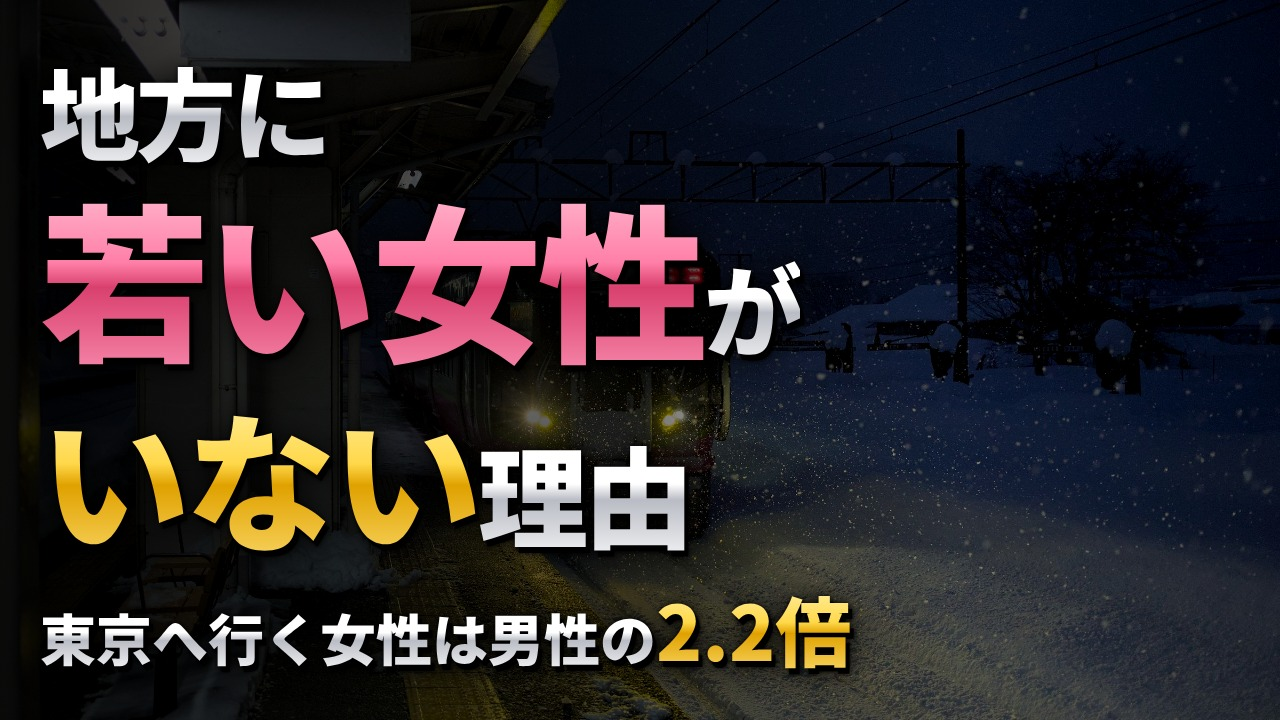
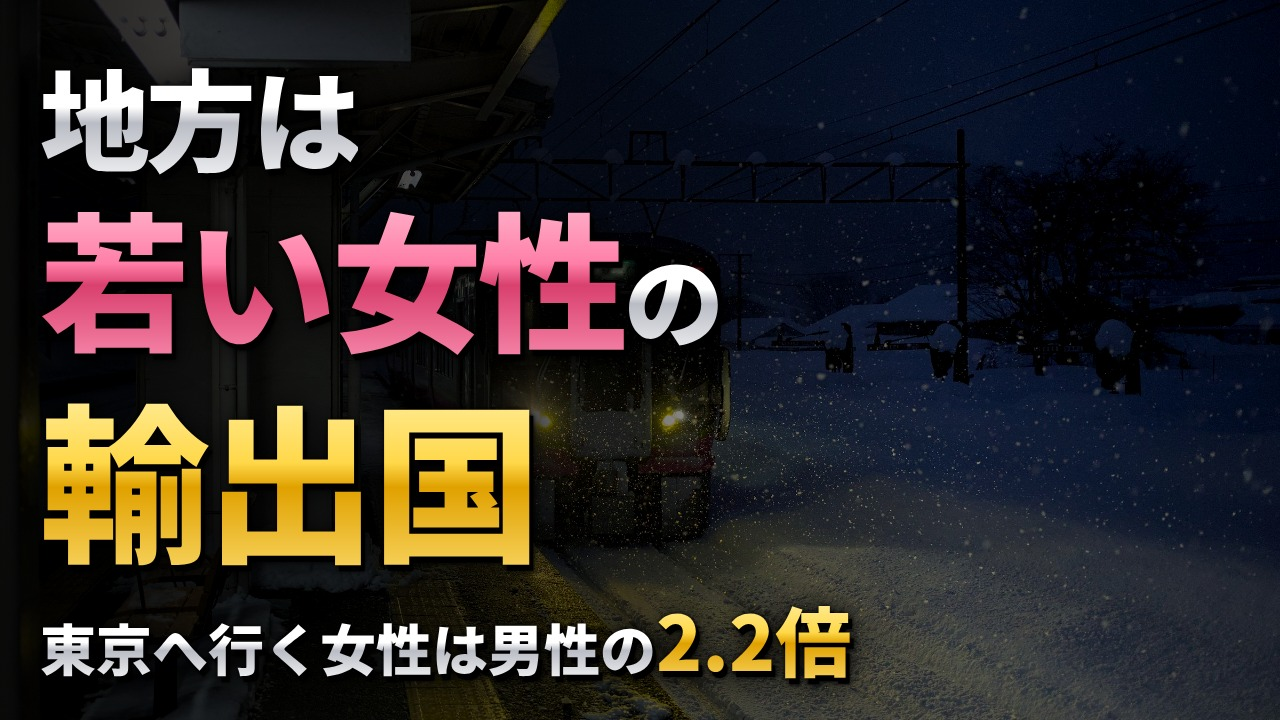
05・06 タイトルとサムネを言い回し型に
Claude-Session: https://claude.ai/code/session_01F9DXnyMM1rdVPBt1VXeibd

diff --git a/sekai/episodes/06_shokuba/thumb/t.html b/sekai/episodes/06_shokuba/thumb/t.html
@@ -6,7 +6,8 @@
 .g{background:linear-gradient(180deg,#fff7c2 0%,#ffd84a 45%,#e0a100 55%,#ffe27a 100%);-webkit-background-clip:text;color:transparent}
 .r{background:linear-gradient(180deg,#ff8a6a 0%,#ff3b1f 45%,#c4130a 55%,#ff5a3a 100%);-webkit-background-clip:text;color:transparent}
 .s{filter:drop-shadow(0 0 2px #000) drop-shadow(4px 6px 0 #000) drop-shadow(0 0 14px rgba(0,0,0,.8))}</style>
-<div class="l s" style="top:70px;font-size:170px"><span class="g">職場結婚</span><span class="w" style="font-size:100px">が</span></div>
-<div class="l s" style="top:290px;font-size:150px"><span class="r">減った</span><span class="w" style="font-size:110px">理由</span></div>
-<div class="l s" style="top:500px;font-size:80px;letter-spacing:-2px"><span class="w">28%</span><span class="w" style="font-size:60px"> → </span><span class="r" style="font-size:100px">21%</span></div>
+<div class="l s" style="top:60px;font-size:120px"><span class="w">会社が</span></div>
+<div class="l s" style="top:200px;font-size:170px"><span class="g">仲人</span><span class="w" style="font-size:110px">を</span></div>
+<div class="l s" style="top:400px;font-size:160px"><span class="r">廃業</span><span class="w" style="font-size:110px">した</span></div>
+<div class="l s" style="top:610px;font-size:60px;letter-spacing:0"><span class="w">職場結婚 28%</span><span class="w" style="font-size:50px"> → </span><span class="r" style="font-size:76px">21%</span></div>
 </body></html>

diff --git a/sekai/episodes/05_chihou/thumb/t.html b/sekai/episodes/05_chihou/thumb/t.html
@@ -6,8 +6,8 @@
 .g{background:linear-gradient(180deg,#fff7c2 0%,#ffd84a 45%,#e0a100 55%,#ffe27a 100%);-webkit-background-clip:text;color:transparent}
 .p{background:linear-gradient(180deg,#ffd0e0 0%,#ff7fa8 45%,#d9406e 55%,#ff9abb 100%);-webkit-background-clip:text;color:transparent}
 .s{filter:drop-shadow(0 0 2px #000) drop-shadow(4px 6px 0 #000) drop-shadow(0 0 14px rgba(0,0,0,.8))}</style>
-<div class="l s" style="top:60px;font-size:100px"><span class="w">地方に</span></div>
-<div class="l s" style="top:190px;font-size:170px"><span class="p">若い女性</span><span class="w" style="font-size:100px">が</span></div>
-<div class="l s" style="top:400px;font-size:150px"><span class="g">いない</span><span class="w" style="font-size:110px">理由</span></div>
-<div class="l s" style="top:590px;font-size:56px;letter-spacing:0"><span class="w">東京へ行く女性は男性の</span><span class="g" style="font-size:76px">2.2倍</span></div>
+<div class="l s" style="top:60px;font-size:110px"><span class="w">地方は</span></div>
+<div class="l s" style="top:200px;font-size:150px"><span class="p">若い女性</span><span class="w" style="font-size:100px">の</span></div>
+<div class="l s" style="top:390px;font-size:170px"><span class="g">輸出国</span></div>
+<div class="l s" style="top:600px;font-size:56px;letter-spacing:0"><span class="w">東京へ行く女性は男性の</span><span class="g" style="font-size:76px">2.2倍</span></div>
 </body></html>

diff --git a/sekai/STYLE.md b/sekai/STYLE.md
@@ -129,3 +129,12 @@
 - 人気動画の冒頭は写真ゼロ。テーマそのものを図（色分けした人型・100人の格子・グラフ）にして、同じ画面に少しずつ足していく。
 - 写真は「その場所・時代を見せないと伝わらない」場面だけ、1本に数枚まで。雰囲気づくりのために写真を敷かない。
 - 写真の中身がセリフと結びつかないもの（06試作の夜のビル＝刑務所やマンションに見えた）は使わない。
+
+## タイトル・サムネの言い回し（KOH指定 2026-11-21）
+- タイトルとサムネには「面白い言い回し」を1つ入れる。葦の「顔の良さには税金がかからない」のような型：
+  1. 別の世界の言葉に置き換える（税金・インフレ・輸出国・廃業・デスノート・死滅回遊）
+  2. 当たり前を逆にする（何もできないことが最強の武器）
+  3. 断定して言い切る（必ず絶滅する）
+  4. 身近な言い回しをそのまま使う（女は上書き保存）
+- 骨組みは「なぜ〇〇は△△なのか？＋データで調べた結果」。人を物に例える強い言い方は本文で丁寧にフォローする。
+- 例：05「なぜ地方は『若い女性の輸出国』になったのか」、06「なぜ会社は『仲人』を廃業したのか」
